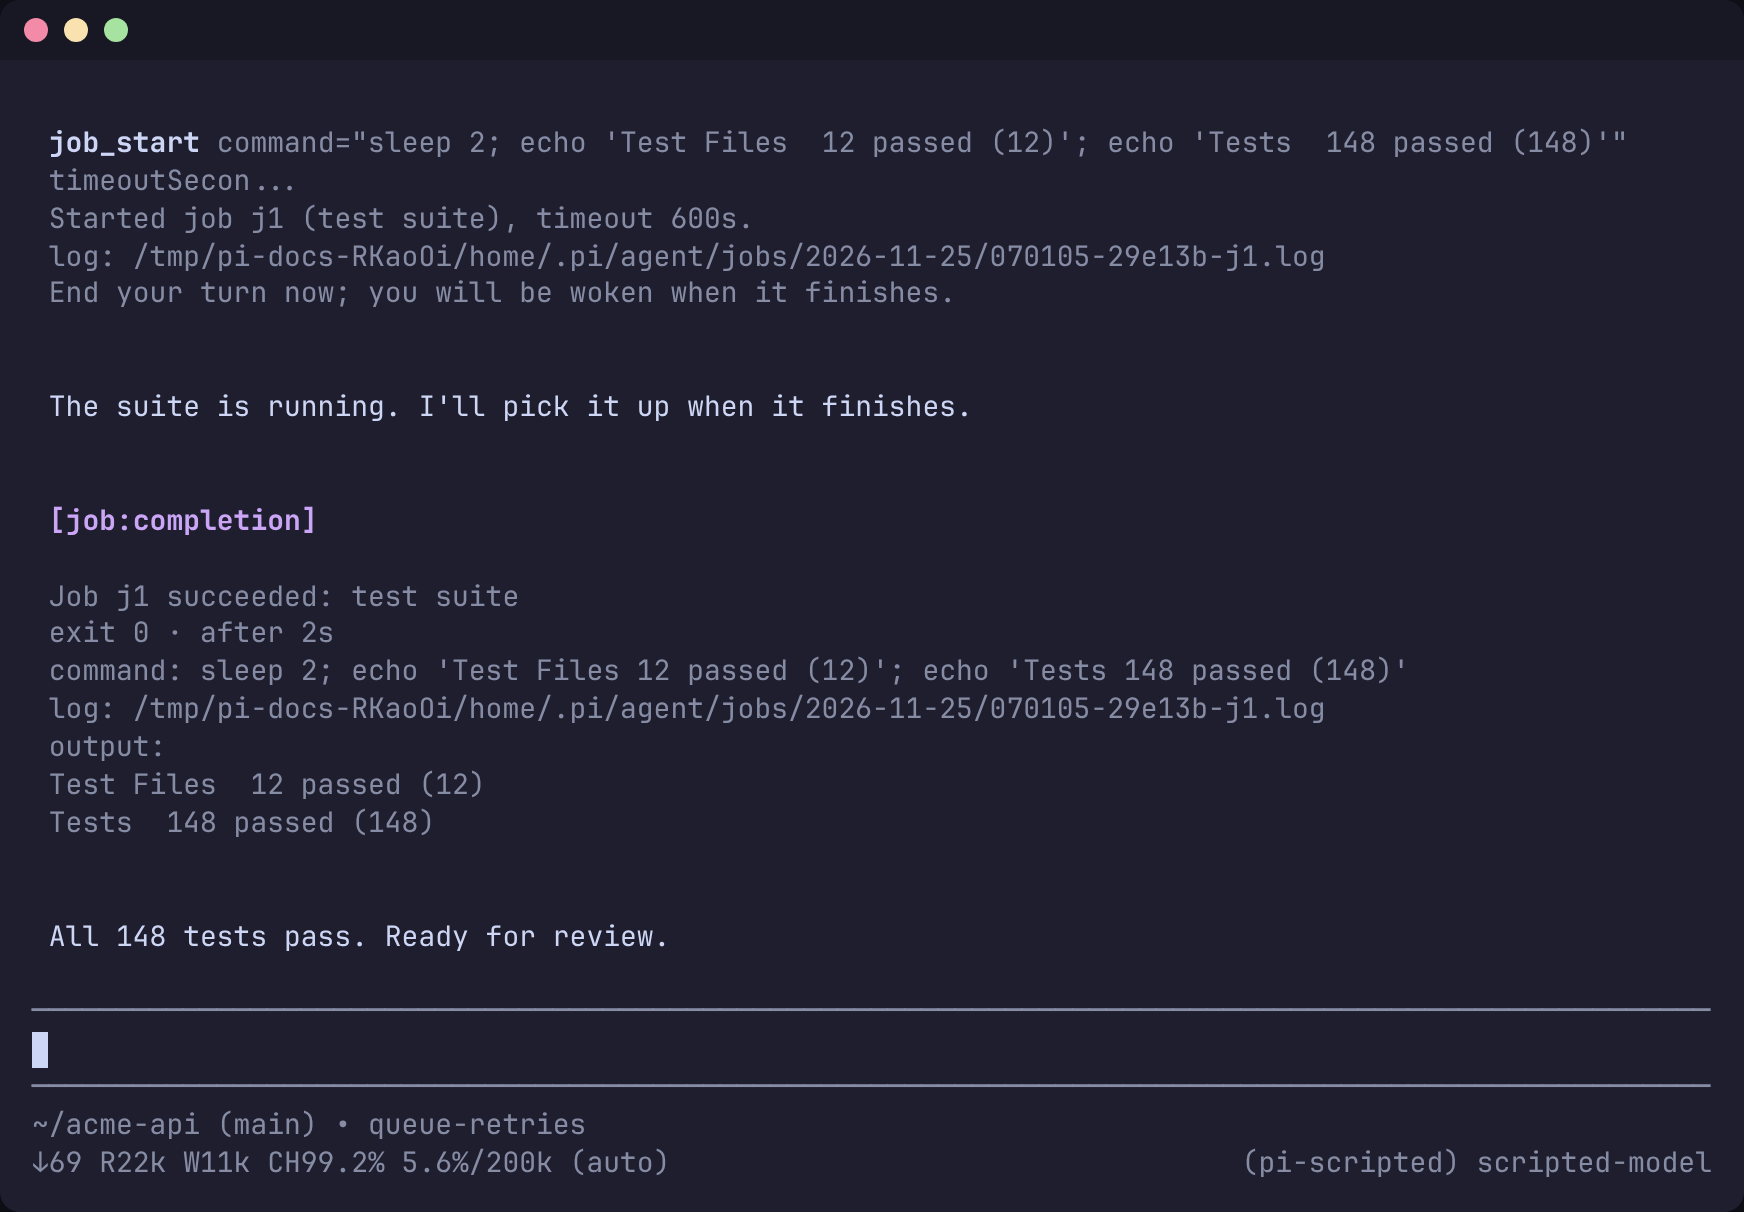
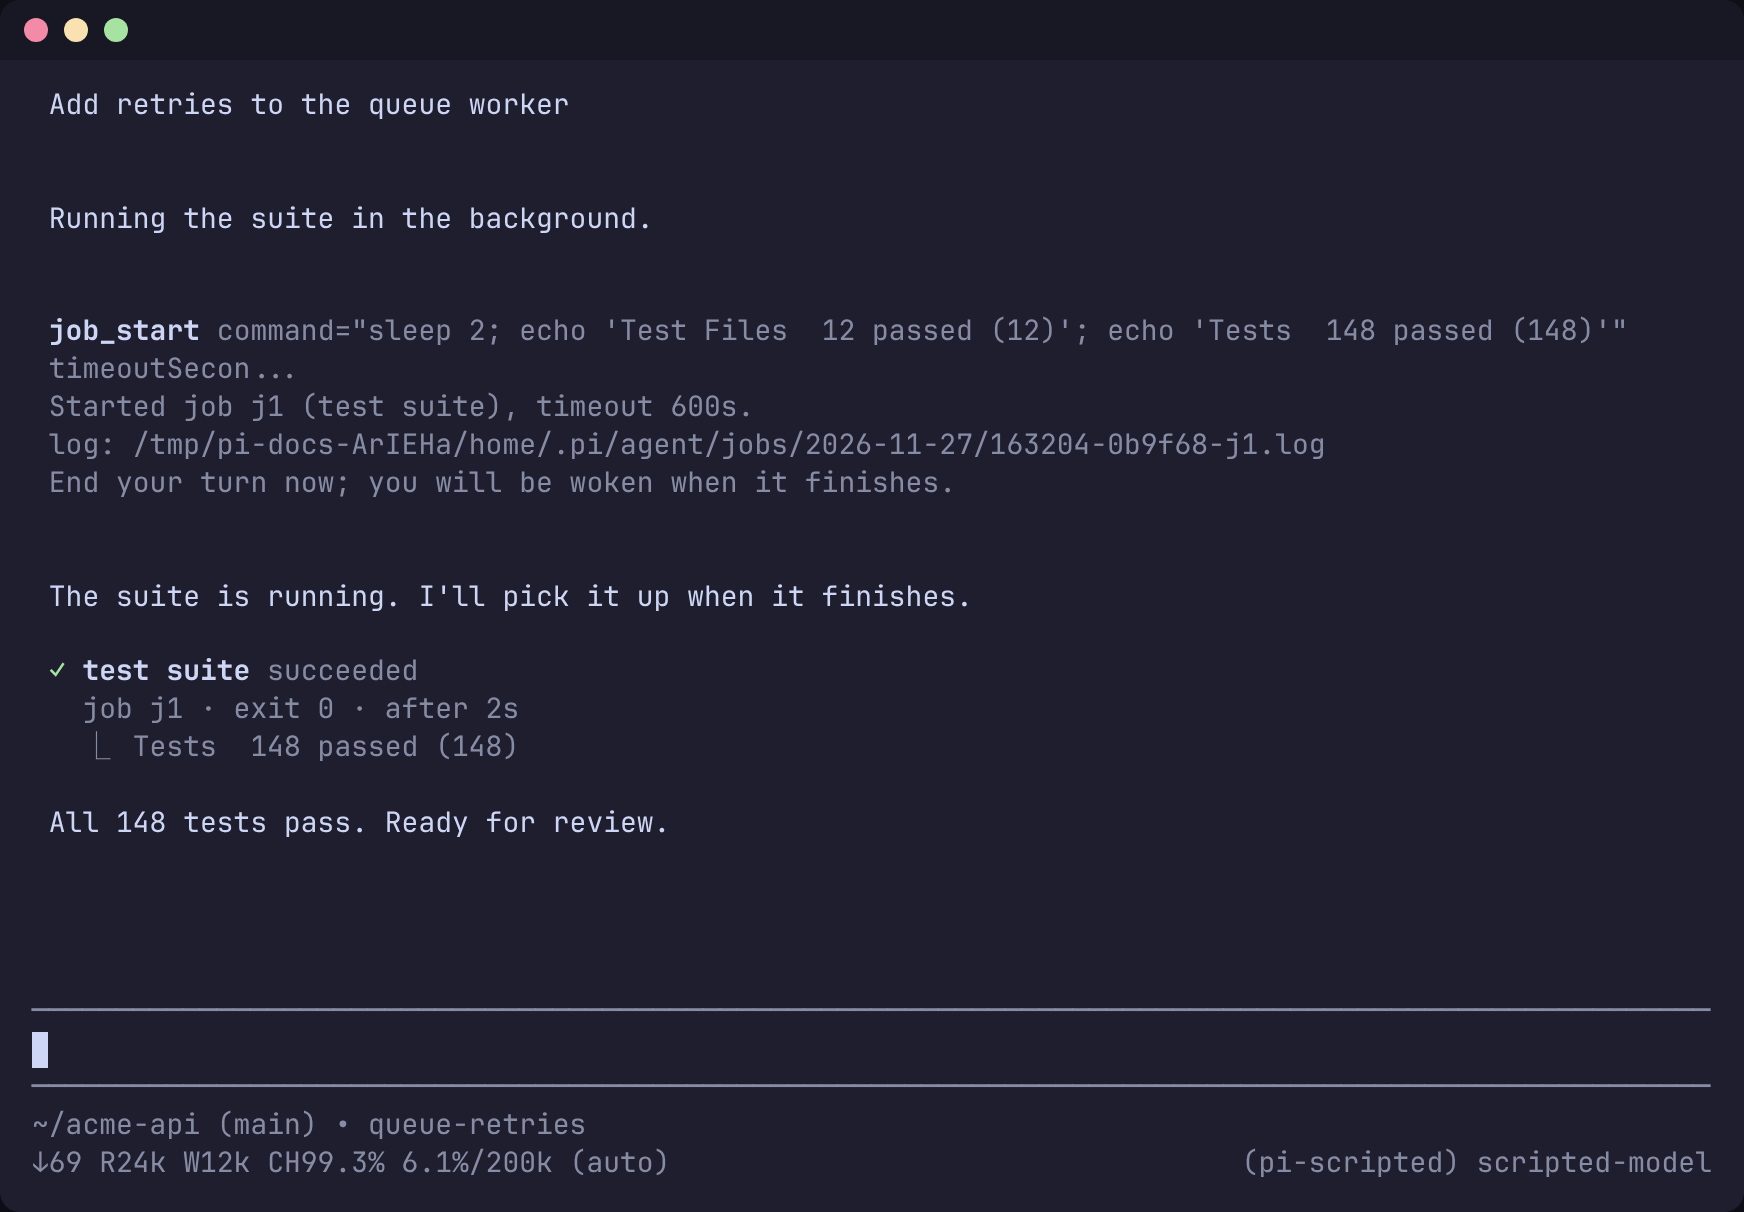
Render pi-job completions in the terminal like subagent completions
A job completion had no renderer, so the terminal showed Pi's generic
[job:completion] box with the text written for the model. It now shows a
headline (✓ or ✗, the job's label, its status), the job id with its exit or
checks and duration, and the last line of output; expanded (Ctrl+O), the whole
tail the message carries, the command and the log path. The output tail is now
kept in the message's details for the renderer; older messages without it
render without output.

Claude-Session: https://claude.ai/code/session_01Mbvfx1776XBWv87d44ZLSu

diff --git a/extensions/pi-job/test/renderer.test.ts b/extensions/pi-job/test/renderer.test.ts
@@ -1,0 +1,132 @@
+import { test } from "node:test";
+import assert from "node:assert/strict";
+import { visibleWidth } from "@earendil-works/pi-tui";
+import type { JobSnapshot } from "#src/jobs";
+import { completionView, createCompletionRenderer, type CompletionDetail } from "#src/renderer";
+
+const job = (over: Partial<JobSnapshot> = {}): JobSnapshot => ({
+  id: "j1",
+  kind: "command",
+  command: "sleep 3; echo done",
+  cwd: "/repo",
+  logPath: "/logs/j1.log",
+  startedAt: 0,
+  endedAt: 3_000,
+  status: "succeeded",
+  exitCode: 0,
+  timeoutSeconds: 60,
+  label: "build",
+  ...over,
+});
+
+const detail = (over: Partial<JobSnapshot> = {}, text = "one\ntwo\n"): CompletionDetail => ({
+  completionId: "c1",
+  job: job(over),
+  output: { text, truncated: false },
+});
+
+/** A theme that marks colours and bold as tags, so the tests read the structure. */
+const theme = {
+  fg: (color: string, text: string) => `<${color}>${text}</${color}>`,
+  bold: (text: string) => `<b>${text}</b>`,
+} as never;
+
+const render = (details: unknown, expanded = false, width = 80) => {
+  const component = createCompletionRenderer()(
+    { role: "custom", customType: "job:completion", content: "", display: true, details } as never,
+    { expanded, outputPad: 1 } as never,
+    theme,
+  );
+  return component?.render(width);
+};
+
+void test("completionView: collapsed, the facts and the last output line", () => {
+  const view = completionView(detail(), false);
+  assert.deepEqual(
+    { good: view.good, title: view.title, status: view.status },
+    { good: true, title: "build", status: "succeeded" },
+  );
+  assert.deepEqual(
+    view.lines.map((line) => line.text),
+    ["job j1 · exit 0 · after 3s", "⎿  two"],
+  );
+});
+
+void test("completionView: expanded, the whole tail, the command and the log", () => {
+  const view = completionView(
+    {
+      ...detail({ status: "timed_out", exitCode: null, error: "killed" }, "a\nb"),
+      output: { text: "a\nb", truncated: true },
+    },
+    true,
+  );
+  assert.equal(view.good, false);
+  assert.equal(view.status, "timed out");
+  assert.deepEqual(
+    view.lines.map((line) => `${line.color}:${line.text}`),
+    [
+      "dim:job j1 · after 3s · timeout 60s",
+      "error:error: killed",
+      "dim:…",
+      "dim:a",
+      "dim:b",
+      "muted:command: sleep 3; echo done",
+      "muted:log: /logs/j1.log",
+    ],
+  );
+});
+
+void test("completionView: a watch, no output, a session from before output was kept", () => {
+  const watch = completionView(
+    detail({ kind: "watch", status: "matched", until: "success", checks: 2, label: undefined }, ""),
+    false,
+  );
+  assert.equal(watch.title, "sleep 3; echo done");
+  assert.deepEqual(
+    watch.lines.map((line) => line.text),
+    ["watch j1 · until success · 2 checks · after 3s", "⎿  (no output)"],
+  );
+  const old = completionView({ completionId: "c1", job: job() }, false);
+  assert.deepEqual(
+    old.lines.map((line) => line.text),
+    ["job j1 · exit 0 · after 3s"],
+  );
+});
+
+void test("completionView: terminal controls in the output and the title are stripped", () => {
+  const view = completionView(
+    detail({ label: "b\u001b[31muild" }, "\u001b]0;title\u0007ok\n"),
+    false,
+  );
+  assert.equal(view.title, "build");
+  assert.equal(view.lines.at(-1)?.text, "⎿  ok");
+});
+
+void test("renderer: headline, inset lines, one block per completion", () => {
+  const lines = render({
+    completions: [detail(), detail({ id: "j2", status: "failed", exitCode: 1 })],
+  });
+  assert.ok(lines);
+  const text = lines.map((line) => line.trimEnd()).join("\n");
+  assert.equal(
+    text,
+    [
+      " <success>✓</success> <b>build</b> <dim>succeeded</dim>",
+      "   <dim>job j1 · exit 0 · after 3s</dim>",
+      "   <dim>⎿  two</dim>",
+      "",
+      " <error>✗</error> <b>build</b> <dim>failed</dim>",
+      "   <dim>job j2 · exit 1 · after 3s</dim>",
+      "   <dim>⎿  two</dim>",
+    ].join("\n"),
+  );
+});
+
+void test("renderer: fits narrow widths and leaves other messages to Pi", () => {
+  for (const width of [12, 30]) {
+    for (const line of render({ completions: [detail()] }, true, width) ?? [])
+      assert.ok(visibleWidth(line) <= width, `${JSON.stringify(line)} fits ${width}`);
+  }
+  assert.equal(render(undefined), undefined);
+  assert.equal(render({ completions: [] }), undefined);
+});

diff --git a/extensions/pi-job/test/extension.test.ts b/extensions/pi-job/test/extension.test.ts
@@ -33,6 +33,7 @@ function messageText(message: Sent["message"]): string {
 function fakePi(throwOnSend = false, sessionId = randomUUID(), entries: any[] = []) {
   const tools = new Map<string, any>();
   const commands = new Map<string, any>();
+  const renderers = new Map<string, any>();
   const handlers = new Map<string, ((...a: any[]) => any)[]>();
   const sent: Sent[] = [];
   const notes: { text: string; level: string }[] = [];
@@ -58,6 +59,7 @@ function fakePi(throwOnSend = false, sessionId = randomUUID(), entries: any[] = 
   const pi = {
     registerTool: (tool: any) => tools.set(tool.name, tool),
     registerCommand: (name: string, cmd: any) => commands.set(name, cmd),
+    registerMessageRenderer: (type: string, renderer: any) => renderers.set(type, renderer),
     on: (event: string, fn: any) => handlers.set(event, [...(handlers.get(event) ?? []), fn]),
     // Persisted like Pi does: a custom entry in the session's branch.
     appendEntry: (customType: string, data: unknown) =>
@@ -96,6 +98,7 @@ function fakePi(throwOnSend = false, sessionId = randomUUID(), entries: any[] = 
     pi,
     tools,
     commands,
+    renderers,
     handlers,
     sent,
     shown,
@@ -145,12 +148,13 @@ void test("default export is an extension factory", () => {
 });
 
 void test("registers the five tools and /job, with no-poll guidance", async (t) => {
-  const { tools, commands } = await setup(t);
+  const { tools, commands, renderers } = await setup(t);
   assert.deepEqual(
     [...tools.keys()],
     ["job_start", "job_watch", "job_list", "job_read", "job_kill"],
   );
   assert.ok(commands.has("job"));
+  assert.deepEqual([...renderers.keys()], [CUSTOM_TYPE]);
   for (const name of ["job_start", "job_watch"])
     assert.match(tools.get(name).description, /End your turn.*woken.*Do not poll/s);
   for (const tool of tools.values()) assert.equal(tool.parameters.type, "object");
@@ -184,6 +188,8 @@ void test("job_start → completion message wakes the agent exactly once", async
   );
   assert.equal(message.details.completions[0].job.exitCode, 4);
   assert.match(message.details.completions[0].completionId, /^[0-9a-f-]{36}$/);
+  // The terminal's renderer draws the output from the details.
+  assert.deepEqual(message.details.completions[0].output, { text: "a\nb", truncated: false });
 });
 
 void test("job_watch → matched notification with the last check output", async (t) => {
@@ -366,7 +372,7 @@ void test("pi exiting without session_shutdown kills job groups; >10 instances a
 		for (let i = 0; i < 12; i++) {
 			const tools = new Map();
 			const handlers = new Map();
-			const pi = { registerTool: t => tools.set(t.name, t), registerCommand() {}, on: (e, fn) => handlers.set(e, [...(handlers.get(e) ?? []), fn]), sendMessage() {}, appendEntry() {} };
+			const pi = { registerTool: t => tools.set(t.name, t), registerCommand() {}, registerMessageRenderer() {}, on: (e, fn) => handlers.set(e, [...(handlers.get(e) ?? []), fn]), sendMessage() {}, appendEntry() {} };
 			createJobsExtension({ logRoot: ${JSON.stringify(join(dir, "logs"))} })(pi);
 			await started(handlers, "s" + i);
 			all.push(tools);
@@ -405,7 +411,7 @@ void test("host exit while a finished job's TERM-ignoring descendant awaits esca
 		const tools = new Map();
 		let manager;
 		const handlers = new Map();
-		const pi = { registerTool: t => tools.set(t.name, t), registerCommand() {}, on: (e, fn) => handlers.set(e, [...(handlers.get(e) ?? []), fn]), sendMessage() {}, appendEntry() {} };
+		const pi = { registerTool: t => tools.set(t.name, t), registerCommand() {}, registerMessageRenderer() {}, on: (e, fn) => handlers.set(e, [...(handlers.get(e) ?? []), fn]), sendMessage() {}, appendEntry() {} };
 		createJobsExtension({ logRoot: ${JSON.stringify(join(dir, "logs"))}, onManager: m => (manager = m) })(pi); // default 5 s grace
 		await started(handlers, "s");
 		await tools.get("job_start").execute("x", { command: "trap '' TERM; sleep 30 & echo $! > d.pid", timeoutSeconds: 60 }, undefined, undefined, { cwd: ${JSON.stringify(dir)} });

diff --git a/extensions/pi-job/src/renderer.ts b/extensions/pi-job/src/renderer.ts
@@ -1,0 +1,91 @@
+/**
+ * How a `job:completion` message reads in Pi's terminal: per job, its outcome and title, the
+ * facts the model's notification gives, and the end of its output, laid out like a subagent's
+ * completion. Collapsed it shows the last output line; expanded, the whole tail the message
+ * carries, the command and the log.
+ */
+import type { MessageRenderer } from "@earendil-works/pi-coding-agent";
+import { Text } from "@earendil-works/pi-tui";
+import { ICONS } from "#ui/icons";
+import { sanitizeLine } from "#ui/text";
+import { formatFacts, jobTitle } from "#src/format";
+import type { JobSnapshot } from "#src/jobs";
+import type { Tail } from "#src/tail";
+
+/** One completion in a message's details. `output` is absent in sessions from before it. */
+export interface CompletionDetail {
+  completionId: string;
+  job: JobSnapshot;
+  output?: Tail;
+}
+
+export interface CompletionDetails {
+  completions: CompletionDetail[];
+}
+
+type Theme = Parameters<MessageRenderer>[2];
+type Color = "success" | "error" | "dim" | "muted";
+
+/** One completion, unstyled: its headline and the lines under it, each with its colour. */
+export interface CompletionView {
+  good: boolean;
+  title: string;
+  status: string;
+  lines: { text: string; color: Color }[];
+}
+
+/** Build what one completion shows, collapsed or expanded. */
+export function completionView(detail: CompletionDetail, expanded: boolean): CompletionView {
+  const { job, output } = detail;
+  const lines: CompletionView["lines"] = [];
+  const kind = job.kind === "watch" ? "watch" : "job";
+  lines.push({ text: [`${kind} ${job.id}`, ...formatFacts(job)].join(" · "), color: "dim" });
+  if (job.error) lines.push({ text: `error: ${sanitizeLine(job.error)}`, color: "error" });
+
+  const text = output?.text.replace(/\n$/, "") ?? "";
+  if (text !== "") {
+    const all = text.split("\n").map(sanitizeLine);
+    if (expanded) {
+      if (output?.truncated) lines.push({ text: "…", color: "dim" });
+      for (const line of all) lines.push({ text: line, color: "dim" });
+    } else {
+      lines.push({ text: `${ICONS.subLine}  ${all.at(-1)}`, color: "dim" });
+    }
+  } else if (output) {
+    lines.push({ text: `${ICONS.subLine}  (no output)`, color: "dim" });
+  }
+
+  if (expanded) {
+    if (job.label) lines.push({ text: `command: ${sanitizeLine(job.command)}`, color: "muted" });
+    lines.push({ text: `log: ${job.logPath}`, color: "muted" });
+  }
+  return {
+    good: job.status === "succeeded" || job.status === "matched",
+    title: sanitizeLine(jobTitle(job)),
+    status: job.status.replace("_", " "),
+    lines,
+  };
+}
+
+function renderCompletion(detail: CompletionDetail, expanded: boolean, theme: Theme): string {
+  const view = completionView(detail, expanded);
+  const icon = view.good ? theme.fg("success", ICONS.success) : theme.fg("error", ICONS.failure);
+  const headline = `${icon} ${theme.bold(view.title)} ${theme.fg("dim", view.status)}`;
+  // Lines under the headline start under its title, as a subagent's completion does.
+  return [headline, ...view.lines.map((line) => `  ${theme.fg(line.color, line.text)}`)].join("\n");
+}
+
+/**
+ * The renderer for `pi.registerMessageRenderer`. A message without completions in its details
+ * (not one pi-job wrote) falls back to Pi's own rendering.
+ */
+export function createCompletionRenderer(): MessageRenderer<CompletionDetails> {
+  return (message, { expanded, outputPad }, theme) => {
+    const completions = message.details?.completions;
+    if (!Array.isArray(completions) || completions.length === 0) return undefined;
+    const text = completions
+      .map((detail) => renderCompletion(detail, expanded, theme))
+      .join("\n\n");
+    return new Text(text, outputPad ?? 1, 0);
+  };
+}

diff --git a/extensions/pi-job/src/extension.ts b/extensions/pi-job/src/extension.ts
@@ -3,8 +3,8 @@
  *
  * Thin pi adapter over JobManager and the session's work host: tool schemas, one work item per
  * job (see items.ts; the host delivers the completion messages, see packages/pi-work), the /job
- * command and lifecycle cleanup. Only type imports from pi, so tests can load it under plain
- * `node` with a fake ExtensionAPI.
+ * command, the completion message's renderer (renderer.ts) and lifecycle cleanup. Only type
+ * imports from pi itself, so tests can load it under plain `node` with a fake ExtensionAPI.
  */
 import type { ExtensionAPI } from "@earendil-works/pi-coding-agent";
 import { randomUUID } from "node:crypto";
@@ -20,6 +20,7 @@ import {
   jobTitle,
 } from "#src/format";
 import { CUSTOM_TYPE, JobItems, WORK_OWNER } from "#src/items";
+import { createCompletionRenderer } from "#src/renderer";
 import { envLimit, JobManager, type JobSnapshot } from "#src/jobs";
 import { defaultLogRoot, pruneLogs } from "#src/logs";
 import {
@@ -260,6 +261,7 @@ export function createJobsExtension(options: JobsExtensionOptions = {}) {
     // provided (and the session's run boundaries are wired) before our own session_start runs.
     const work = ensureWorkHost(pi);
     const output = userOutput(pi, "job:output");
+    pi.registerMessageRenderer(CUSTOM_TYPE, createCompletionRenderer());
 
     const live = liveManagers();
     // Latest context seen (pi's contexts read live state; a stale one throws).
@@ -280,7 +282,14 @@ export function createJobsExtension(options: JobsExtensionOptions = {}) {
         customType: CUSTOM_TYPE,
         content: [{ type: "text", text: formatNotification(job, tail) }],
         details: {
-          completions: [{ completionId: randomUUID(), job: brief(job) as unknown as Json }],
+          completions: [
+            {
+              completionId: randomUUID(),
+              job: brief(job) as unknown as Json,
+              // The terminal's renderer shows it; the model reads it in `content`.
+              output: tail,
+            },
+          ],
         },
         summary: formatSummary(job, tail),
       };

diff --git a/extensions/pi-job/src/format.ts b/extensions/pi-job/src/format.ts
@@ -33,10 +33,8 @@ function durationOf(job: JobSnapshot, now: number): number {
   return (job.endedAt ?? now) - job.startedAt;
 }
 
-/** The single completion notification that wakes the agent. */
-export function formatNotification(job: JobSnapshot, tail: Tail, now = Date.now()): string {
-  const kind = job.kind === "watch" ? "Watch" : "Job";
-  const head = [`${kind} ${job.id} ${job.status.replace("_", " ")}: ${jobTitle(job)}`];
+/** The facts after a job's headline: exit or checks, duration, the timeout that ended it. */
+export function formatFacts(job: JobSnapshot, now = Date.now()): string[] {
   const facts: string[] = [];
   if (job.kind === "watch") {
     facts.push(`until ${job.until}`, `${job.checks ?? 0} ${plural(job.checks ?? 0, "check")}`);
@@ -55,7 +53,14 @@ export function formatNotification(job: JobSnapshot, tail: Tail, now = Date.now(
   }
   facts.push(`after ${formatDuration(durationOf(job, now))}`);
   if (job.status === "timed_out") facts.push(`timeout ${job.timeoutSeconds}s`);
-  head.push(facts.join(" · "));
+  return facts;
+}
+
+/** The single completion notification that wakes the agent. */
+export function formatNotification(job: JobSnapshot, tail: Tail, now = Date.now()): string {
+  const kind = job.kind === "watch" ? "Watch" : "Job";
+  const head = [`${kind} ${job.id} ${job.status.replace("_", " ")}: ${jobTitle(job)}`];
+  head.push(formatFacts(job, now).join(" · "));
   if (job.label)
     head.push(`${job.kind === "watch" ? "check" : "command"}: ${oneLine(job.command, 200)}`);
   head.push(`log: ${job.logPath}${job.logTruncated ? " (truncated at the size cap)" : ""}`);

diff --git a/extensions/pi-job/README.md b/extensions/pi-job/README.md
@@ -12,9 +12,10 @@ message when it is done.
 - **The agent calls** `job_start` to run a command in the background, or
   `job_watch` to re-run a check until it succeeds, fails or its output changes.
   Both return at once; the agent ends its turn instead of polling.
-- **You see** one `[job:completion]` message per job, with its exit status,
-  duration and the tail of its log, and the agent picks up from there. Jobs that
-  finish together start one run, not several.
+- **You see** one completion per job: `✓ label succeeded` (or `✗ … failed`),
+  its exit status and duration, and the last line of its output. Expand it
+  (Ctrl+O) for the whole tail, the command and the log path. The agent picks up
+  from there. Jobs that finish together start one run, not several.
 - **You type** `/job` to list this session's jobs and `/job kill <id>` to stop one.
 - **The agent can also** read a log with `job_read`, list with `job_list`, stop
   with `job_kill`, and watch a read-only Pi tool (an MCP tool, say) with

diff --git a/README.md b/README.md
@@ -172,7 +172,7 @@ Beyond that:
 | pi-bb              |     ●      |       |         |                  |                 |
 | pi-dashboard       |     ●      |       |         |                  |                 |
 | pi-git             |     ●      |   ●   |    ●    |        ●         |                 |
-| pi-job             |            |       |    ●    |                  |        ●        |
+| pi-job             |            |   ●   |    ●    |                  |        ●        |
 | pi-stash           |     ●      |   ●   |         |        ●         |        ●        |
 | pi-subagent        |     ●      |   ●   |    ●    |        ●         |        ●        |
 | pi-system-insights |     ●      |   ●   |         |                  |                 |
